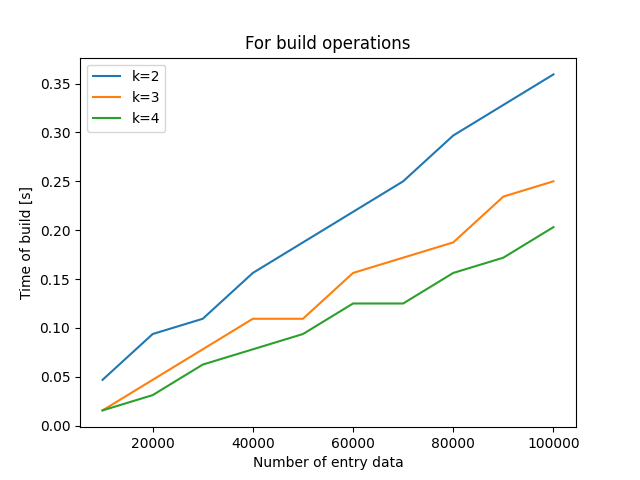
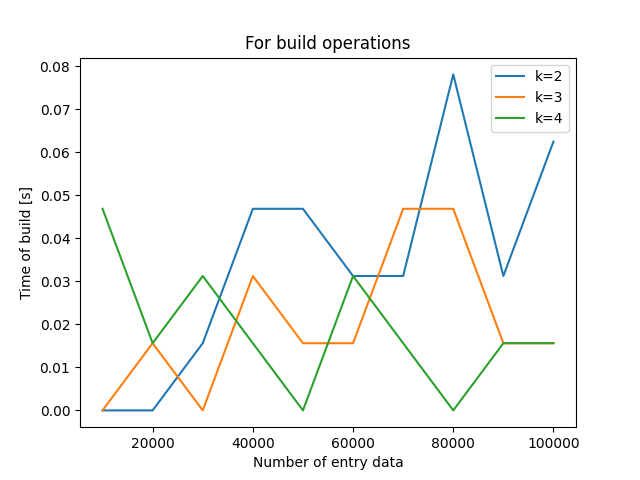
change of class

diff --git a/heap.py b/heap.py
@@ -4,54 +4,53 @@ class Heap:
     def __init__(self, h, bt, et):
         self.heap = h[:]
         self.build_time = bt
-        self.extraction_time = bt
+        self.extraction_time = et
 
+    def restore_down(self, index, k):
+        length = len(self.heap)
+        child = [0] * (k + 1)
+        while True:
+            for i in range(1, k + 1):
+                child[i] = k * index + i if k * index + i < length else -1
+    
+            max_child, max_child_index = -1, 0
+            for i in range(1, k + 1):
+                if child[i] != -1 and self.heap[child[i]] > max_child:
+                    max_child_index = child[i]
+                    max_child = self.heap[child[i]]
+    
+            if max_child == -1:
+                break
+    
+            if self.heap[index] < self.heap[max_child_index]:
+                self.heap[index], self.heap[max_child_index] = self.heap[max_child_index], self.heap[index]
+    
+            index = max_child_index
 
-def restore_down(arr, length, index, k):
-    child = [0] * (k + 1)
-    while True:
-        for i in range(1, k + 1):
-            child[i] = k * index + i if k * index + i < length else -1
- 
-        max_child, max_child_index = -1, 0
-        for i in range(1, k + 1):
-            if child[i] != -1 and arr[child[i]] > max_child:
-                max_child_index = child[i]
-                max_child = arr[child[i]]
- 
-        if max_child == -1:
-            break
- 
-        if arr[index] < arr[max_child_index]:
-            arr[index], arr[max_child_index] = arr[max_child_index], arr[index]
- 
-        index = max_child_index
- 
-def restore_up(arr, index, k):
-    parent = (index - 1) // k
-    while parent >= 0:
-        if arr[index] > arr[parent]:
-            arr[index], arr[parent] = arr[parent], arr[index]
-            index = parent
-            parent = (index - 1) // k
-        else:
-            break
- 
-def build_heap(arr, n, k):
-    for i in range((n - 1) // k, -1, -1):
-        restore_down(arr, n, i, k)
- 
-def insert(arr, n, k, elem):
-    arr.append(elem)
-    n += 1
-    restore_up(arr, n - 1, k)
- 
- 
-def extract_max(arr, n, k):
-    max_elem = arr[0]
-    arr[0] = arr[n - 1]
-    n -= 1
-    restore_down(arr, n, 0, k)
-    arr.pop()
-    return max_elem
+    def restore_up(self, index, k):
+        parent = (index - 1) // k
+        while parent >= 0:
+            if self.heap[index] > self.heap[parent]:
+                self.heap[index], self.heap[parent] = self.heap[parent], self.heap[index]
+                index = parent
+                parent = (index - 1) // k
+            else:
+                break
+
+    def build_heap(self, n, k):
+        for i in range((n - 1) // k, -1, -1):
+            self.restore_down(i, k) 
+
+    def insert(self, elem, k):
+        self.heap.append(elem)
+        n = len(self.heap)
+        self.restore_up(n - 1, k)
+
+    def extract_max(self, k):
+        max_elem = self.heap[0]
+        self.heap[0] = self.heap[len(self.heap) - 1]
+        self.heap.pop()
+        n = len(self.heap)
+        self.restore_down(0, k)
+        return max_elem
 

diff --git a/main.py b/main.py
@@ -17,13 +17,14 @@ def main():
         list_of_heaps = [] # list for current k
         for i in number_of_data:
             temp = list_entry[0:i] # copy, cuz we do not want to change original data
+            x = Heap(h=temp, bt=0, et=0)
             start = time.process_time()
-            build_heap(temp, len(temp), k)
+            x.build_heap(len(temp), k)
             stop = time.process_time()
-            x = Heap(h=temp, bt=stop - start, et=0)
+            x.build_time = stop - start
             start = time.process_time()
             for ii in range(0, i):
-                extract_max(temp, len(temp), k)
+                x.extract_max(k)
             stop = time.process_time()
             x.extraction_time = stop - start
             list_of_heaps.append(x) # we push current heap formed from list_entry for curren value from number_of_data[]
